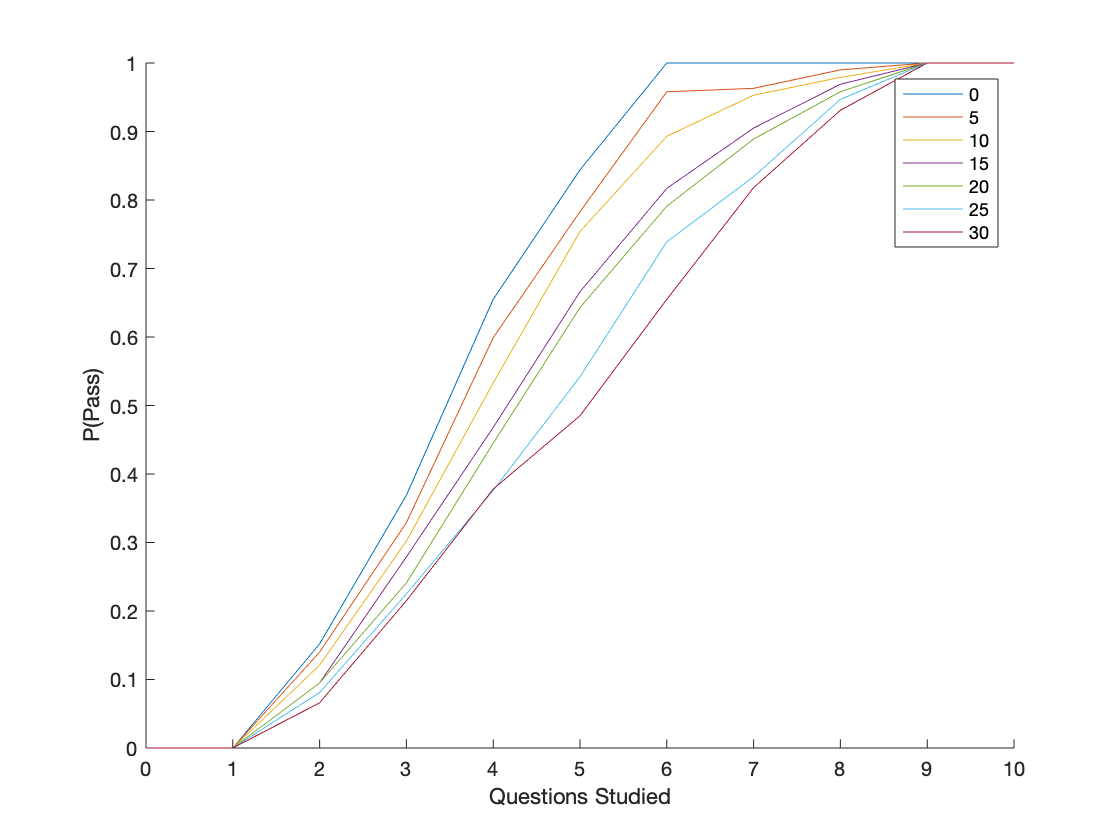
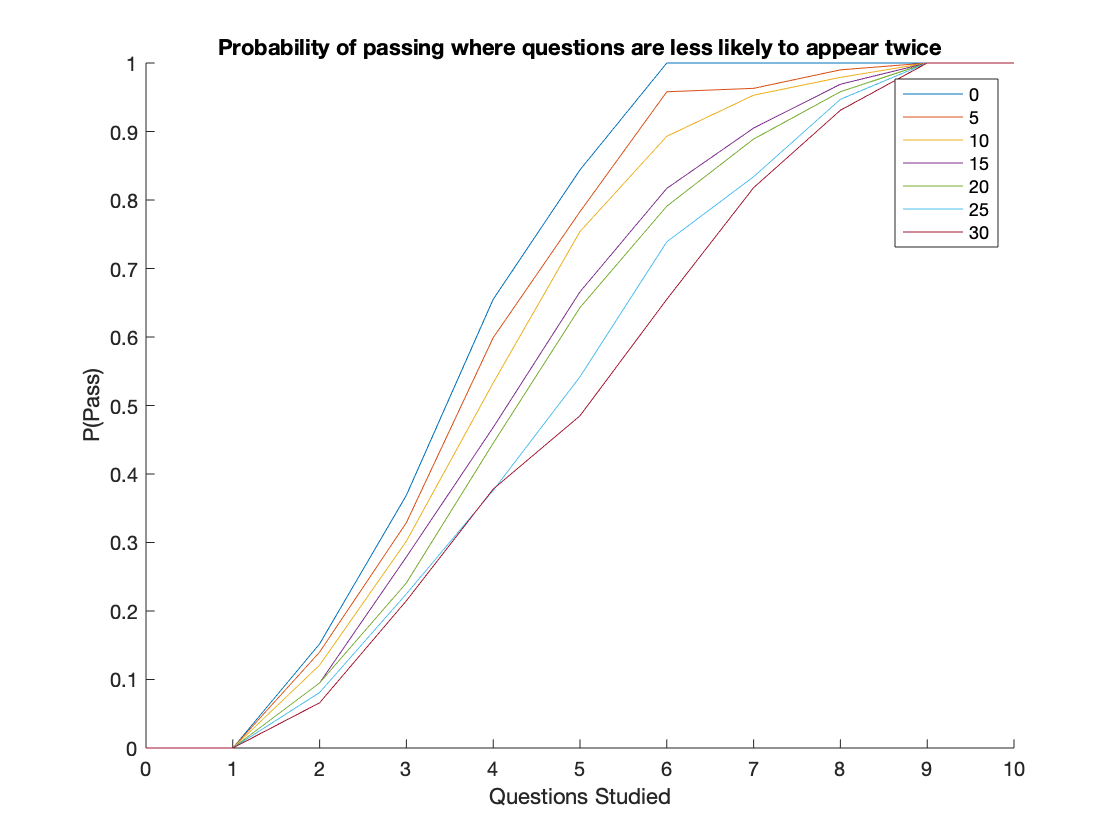
Rework Q1
Should be done now

Changed region(s): [[0.1875, 0.031, 0.8438, 0.0929]]

diff --git a/FinalExam/Q1_h.m b/FinalExam/Q1_h.m
@@ -9,7 +9,7 @@ legArr = zeros(1, cast((high-low)/steps,'uint8'));
 for i = 0:((high-low)/steps)+1
    legArr(i+1) = cast((low+i*steps)*100,'uint8');
 end    
-legArr = string(legArr)
+legArr = string(legArr);
 
 
 for i = 0:10
@@ -30,7 +30,7 @@ line(idx, resMat)
 legend(legArr)
 xlabel("Questions Studied")
 ylabel("P(Pass)")
-
+title("Probability of Passing where questions are more likely to appear twice")
 
 
 function X = stoSim3 (n, predictability)

diff --git a/FinalExam/Q1_h_B.m b/FinalExam/Q1_h_B.m
@@ -9,7 +9,7 @@ legArr = zeros(1, cast((high-low)/steps,'uint8'));
 for i = 0:((high-low)/steps)+1
    legArr(i+1) = cast((low+i*steps)*100,'uint8');
 end    
-legArr = string(legArr)
+legArr = string(legArr);
 
 
 for i = 0:10
@@ -30,7 +30,7 @@ line(idx, resMat)
 legend(legArr)
 xlabel("Questions Studied")
 ylabel("P(Pass)")
-
+title("Probability of passing where questions are less likely to appear twice")
 
 
 function X = stoSim3 (n, predictability)

diff --git a/FinalExam/Q1_h_C.m b/FinalExam/Q1_h_C.m
@@ -4,7 +4,7 @@ high = 0.3;
 steps = 0.05;
 runs = 1000;
 resMat = zeros(10, 3);
-legArr = [{'random'}, {'in-last'}, {'not-in-last'}]
+legArr = [{'random'}, {'in-last'}, {'not-in-last'}];
 
 
 for i = 0:10
@@ -27,6 +27,7 @@ line(idx, resMat)
 legend(legArr)
 xlabel("Questions Studied")
 ylabel("P(Pass)")
+title("Probability of passing random exam when applying different strategies")
 
 
 

diff --git a/FinalExam/Report.md b/FinalExam/Report.md
@@ -6,17 +6,22 @@
 
 #### (a)
 
-$\binom{10}{3}=120$ possible combinations. There are 10 possible questions, we choose 3 of those 10.
+$\binom{10}{3}=120$ possible combinations. There are 10 possible questions, we choose 3 of those 10 without replacement.
 
 #### (b)
 
-$\frac{\binom{10-n}{3}}{\binom{10}{3}}$ where $0<=n<=7$. If $n>7$, the the probability of none of the questions studied appearing = 0  
+$\frac{\binom{10-n}{3}}{\binom{10}{3}}$ where $0<=n<=7$. If $n>7$, $P(none)=0$.  
+If we assume that none of the $n$ topics we studied appear on the exam, that means the exam was a combination of all other topics ie. $10-n$. We divide this by the total possible number of exams to get the probablilty that none appear.
+As there are 3 questions on the exam and the student must have not studied at least 3 topics for a full exam to include none of the topics studied.
 
 #### (c)  
 
-p(none)+p(exactly 1)  
-p(none) = $\frac{\binom{10-n}{3}}{\binom{10}{3}}$ where $0<=n<=7$, outside of this range $P=0$  
-p(exactly 1) = $\frac{\binom{n}{1}*\binom{9-n}{2}}{\binom{10}{3}}$, where $1<=n<=8$, outside of this range $P=0$  
+To calculate this we add $P(none)$ and $P(exactly1)$, the probabilities that either none or only one of the topics studied appears on the paper.
+
+$P(none) = \frac{\binom{10-n}{3}}{\binom{10}{3}}$ where $0<=n<=7$, outside of this range $P=0$ as explained in $(b)$  
+
+$P(exactly 1) = \frac{\binom{n}{1}*\binom{9-n}{2}}{\binom{10}{3}}$, where $1<=n<=8$, outside of this range $P=0$.  
+To get this we get the number of exam combinations where $1$ of the $n$ topics we have studied appears and $2$ of the $9-n$ topics we haven't studied appear. To get the probability, we then divide this by the total number of possible exams. The following plot shows the probability of failing as $n$ increases.
 
 <img src="images/Q1_c.png" alt="Graph of P(failure) with 3 questions on exam" width="300"/>
 
@@ -24,29 +29,28 @@ p(exactly 1) = $\frac{\binom{n}{1}*\binom{9-n}{2}}{\binom{10}{3}}$, where $1<=n<
 
 #### (d)  
 
-p(none)+p(exactly 1)  
-p(none) = $\frac{\binom{10-n}{4}}{\binom{10}{4}}$, where $0<=n<=6$, outside of this range $P=0$  
-p(exactly 1) = $\frac{\binom{n}{1}*\binom{10-n}{3}}{\binom{10}{4}}$, where $1<=n<=7$, outside of this range $P=0$  
+Once again we add $P(none)$ and $P(exactly1)$, the probabilities that either none or only one of the topics studied appears on the paper.
+
+In this case:
+$P(none) = \frac{\binom{10-n}{4}}{\binom{10}{4}}$, where $0<=n<=6$, outside of this range $P=0$. This is similar to $(c)$: the number of 4-topic exam combinations that can be made with the $10-n$ topics that were not studied divided by the total number of exams. If $n>6$, $P(none)=0$ as each exam covers 4 topics and there are $<4$ unstudied topics.  
+
+$P(exactly 1) = \frac{\binom{n}{1}*\binom{10-n}{3}}{\binom{10}{4}}$, where $1<=n<=7$, outside of this range $P=0$. As previously: we will only fail is $1$ or less of our studied topics appears (as 2 are required to pass). Get all combinations of only one of the studied topics appearing on the exam divided by the total number of exams.  
 
 <img src="images/Q1_d.png" alt="Graph of P(failure) with 4 questions on exam" width="300"/>
 
 <!-- ![Graph of P(failure) with 4 questions on exam](images/Q1_d.png) -->
 
-**COMPARE WITH RESULTS FROM PART (C)**  
-The chance of failing is much lower.  
-This is due to the additional question on the exam.  
-Do some maths on the percentage difference at each point.  
-Still need to answer 2 questions to pass but more likely that you will have studied at least 2.  
-Far less likely that will have studied none of 4 vs. none of 3.
-
+In the case of this exam, where there are 4 topics on the paper, the probability of failing is much lower overall.  
+Studying at least 8 topics will guarantee a passing grade on the latter exam, compared to the 9 required in the first exam. This is due to the same number of questions that must be answered to pass but in the case of the latter exam, there is a higher probability that the exam will contain at least 2 of the studied topics.  
+Therefore if the standard of questions on both exams is equal, the 4-topic exam will have a higher pass rate.
 
 #### (e)
 
-The code generates 2 lists of numbers 0-10. It selects the first 3 from one and first n from the other. If there is an overlap of more than 1 ie. student passes exam, it returns 1, otherwise 0.
+The code generates 2 random lists of numbers 0-10. It selects the first 3 from one (the exam) and first $n$ from the other (the topics studied). If there is an overlap of more than 1 ie. more than 1 of the topics studied appears and student passes exam, it returns 1, otherwise 0.
 
 #### (f)
 
-Call function from (e) N times and return the mean
+Call function from $(e)$ N times and return the mean
 
 Searching for range $[\mu-2\sigma, \mu+2\sigma]$
 $$
@@ -60,7 +64,7 @@ $$
 E[X_i]\plusmn2\sqrt{\frac{var(X_i)}{N}}
 $$
 
-Using (c):  
+Using $(c)$:  
 $1-E[X_i]=0.1833, E[X_i]=0.8167$ when $n=7$.  
 $var(X_i)=\mu*(1-\mu)=0.8167*0.1833=0.1497$
 
@@ -76,10 +80,13 @@ $0.8167\plusmn0.00773$
 $[0.80897,0.82443]$
 
 #### (g)  
-***Change this a bit***  
-The simulation generates a new set of topics studied by a student and a set of topics to appear on the exam for each N. It then verifies if the student has passed the exam and uses the series of values to calculate the mean, Y.  
-For each iteration of the simulation, the resulting Y is compared to the confidence interval and if it lands within the interval it is added to a counter. When all X simulations have been run, this counter is divided by X to find what percentage was within the confidence interval.  
-I chose an X of $1,000$. The reason for this is that we are already using values of $N=1,000,N=10,000$ resulting in a total number of iterations of $1,000,000$ and $10,000,000$ respectively. This number is more than large enough to provide an accurate result. Running time was also unreasonable when $X>1,000$ which did factor into the decision.  
+
+At every iteration of the simulation the following is done $N$ times: a new exam and a new set of studied topics is generated. After this, it is determined if the student has passes the exam ie. more than 1 of the studied topics is on the exam. It then uses this to calculate the mean $Y$.  
+
+Each time this is done, the value of $Y$ is compared to the confidence interval and if it is within the confidence interval it is added to a tally. When the simulations have run, this number is divided by $X$ to find the percentage of results that landed within the confidence interval.
+
+I chose the value of $X$ to be $1,000$. The reason for this is that we are already using quite large values for $N$: $N=1,000,N=10,000$ resulting in a total number of iterations of $1,000,000$ and $10,000,000$ respectively. This number is more than large enough to provide an accurate result. Running time was also unreasonable when $X>1,000$ which did factor into the decision.  
+
 In the case of $N=1,000$ the simulation resulted in an accuracy of $95.4\%$.  
 In the case of $N=10,000$ the simulation resulted in an accuracy of $94.9\%$.  
 These results seem very reasonable as both are quite close to $95\%$. With a different seed for the random number generator the result could be slightly different but both results are acceptably close to $95\%$.
@@ -212,7 +219,6 @@ Take a guess
 
 The value of $x$ must be carefully chosen as a value too small will take a long time to reach an optimal answer and a value that is too large may miss the optimal answer completely.  
 It is possible to modify $x$ so that it is initially large but reduces when the the function starts reducing accuracy. This would allow for faster progress during initial iterations while also allowing for increased accuracy in later iterations.
-
 
 <br><br><br><br>
 
